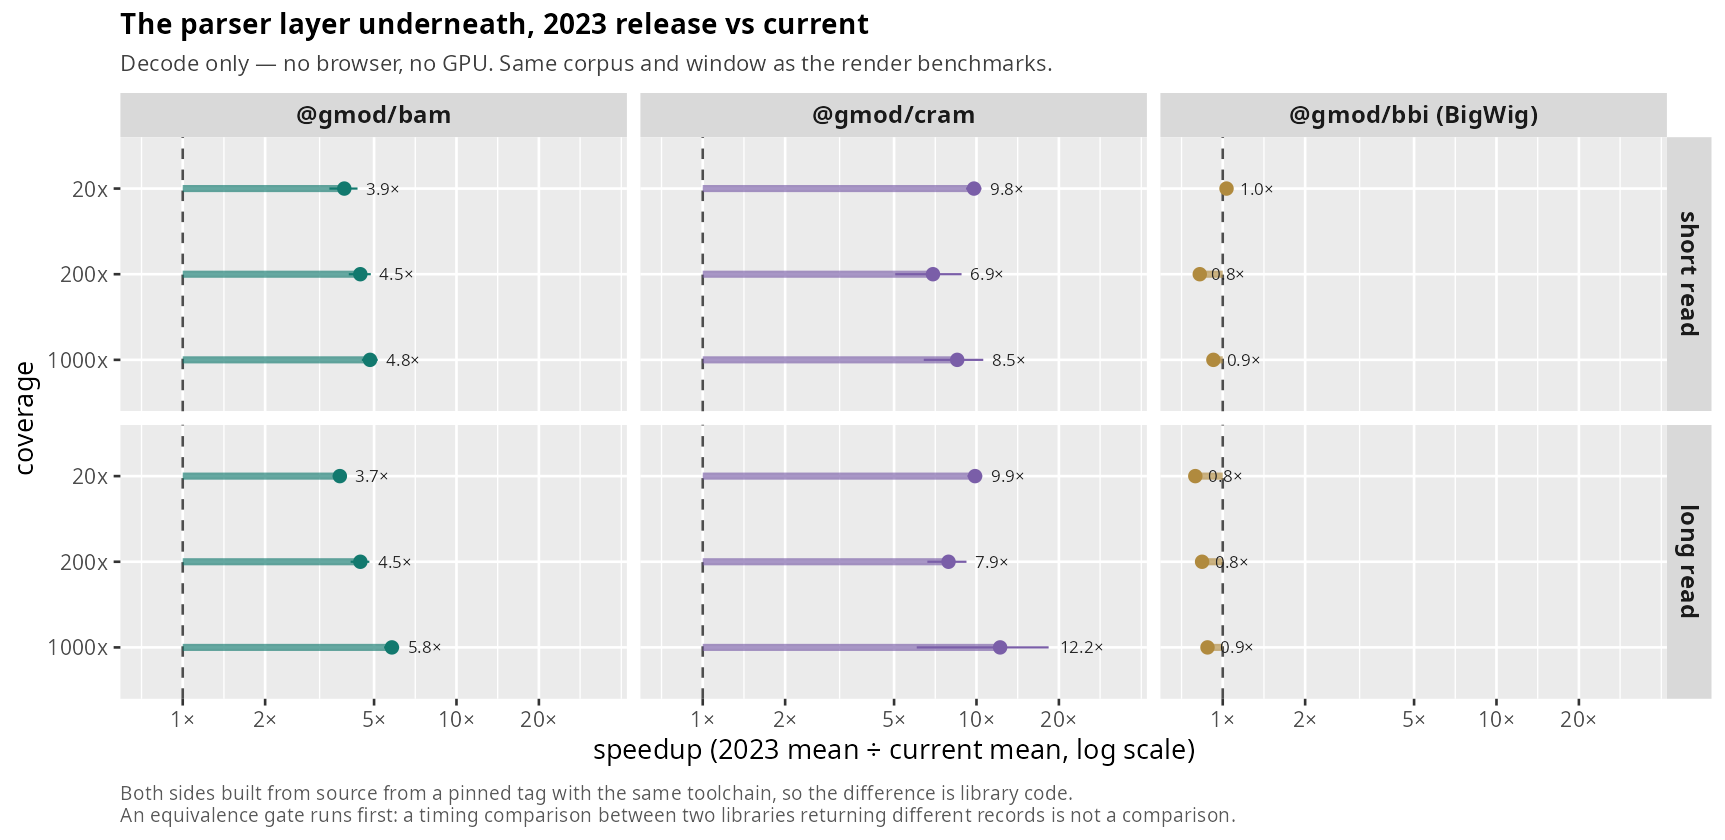
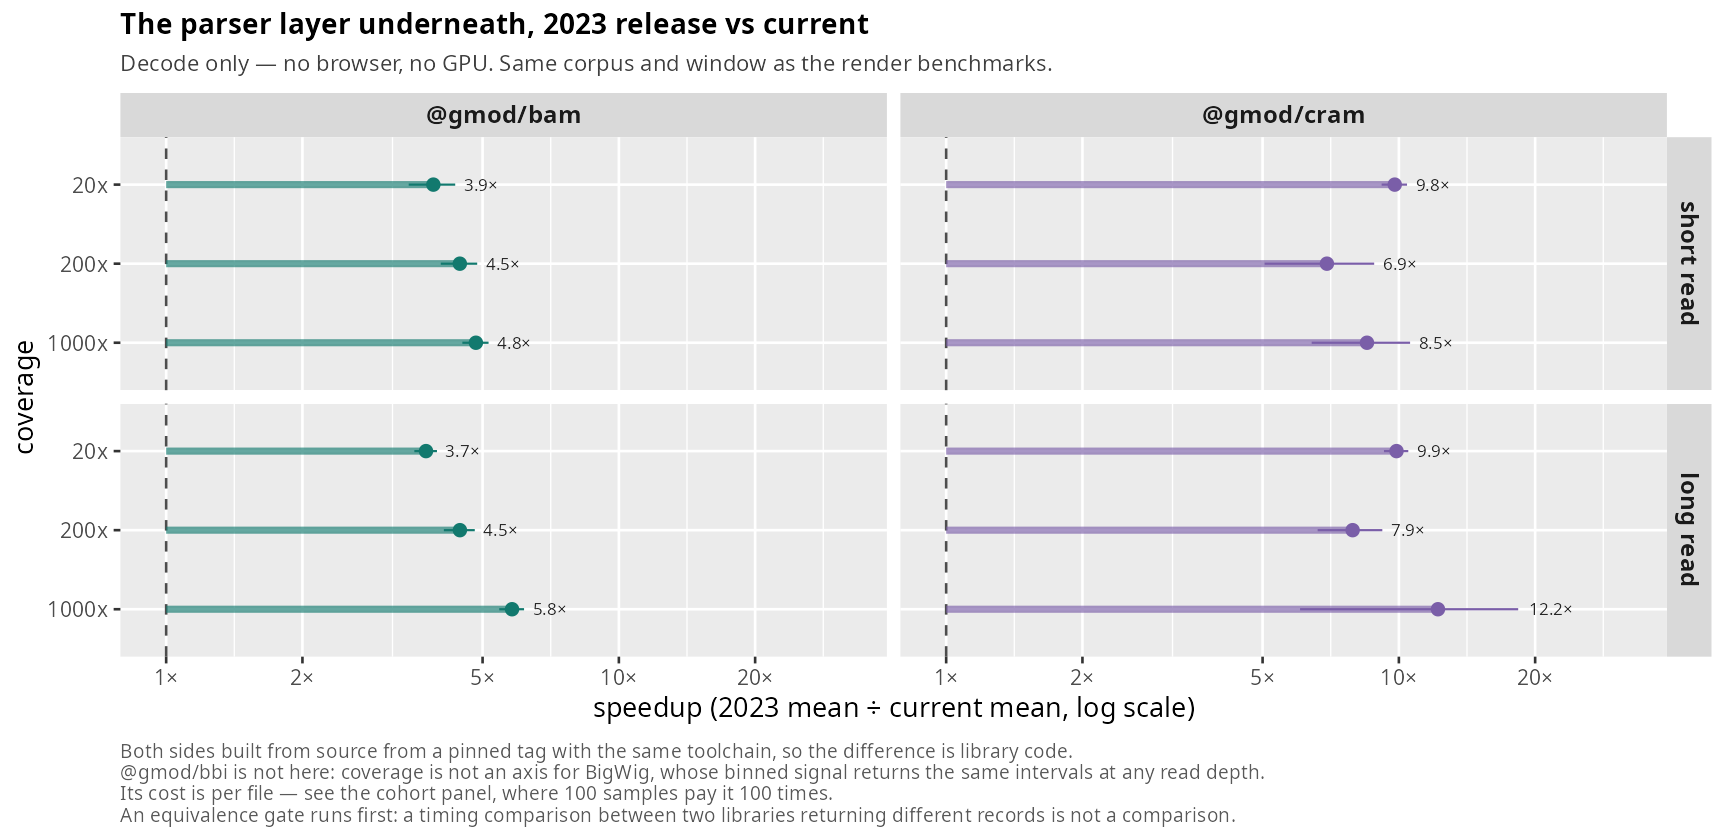
BigWig comes off the coverage axis and gets the benchmark that fits it
Coverage is not an axis for BigWig and putting it on one was nonsense. A BigWig
holds binned signal, so the 19 kb window returns about the same intervals at any
read depth: 13168, 17676, 18495 across 20x/200x/1000x, against BAM's 3079,
31126, 153652 over the same steps. Six sub-2 ms numbers that barely move were
drawn as a coverage trend. COMPARISONS.md already said the single-file case
'reports nothing -- 1-3 ms, flat'; the figure had not caught up.

The axis that matters is how many FILES, because a BigWig query reads the
header, walks the chromosome B+ tree and descends the R-tree before touching
data, and a panel pays all of it per sample. results/figures/cohort-bw.png plots
that: read() calls against panel size, and the per-file read sequence beside it.

Counts rather than milliseconds, which is why this figure is drawable on a box
too loaded to time anything -- and it carries a finding the timings would have
buried. The current release issues one MORE request per file than the 2023 one
for identical bytes: a 56-byte header read split into 32 and 22. Over a network
that is an extra round trip per sample, 100 of them in a 100-file panel.

Cohort counts re-run at the pins versions.json actually holds (v3.0.0 vs
v11.2.2); they were recorded against v4.0.0/v10.0.2 before the 2026-08-18
repin.

diff --git a/ecosystem/results/cohort-bw.md b/ecosystem/results/cohort-bw.md
@@ -26,8 +26,8 @@ range request and a round trip.
 
 | version | N | reads | bytes | reads per file |
 | --- | ---: | ---: | ---: | ---: |
-| v4.0.0 (2023) | 100 | 500 | 1649 KB | 5.0 |
-| v10.0.2 (current) | 100 | 600 | 1649 KB | 6.0 |
+| v3.0.0 (2023) | 100 | 500 | 1649 KB | 5.0 |
+| v11.2.2 (current) | 100 | 600 | 1649 KB | 6.0 |
 
 Full sizes are in `results/cohort-bw.json`. Reads per file is flat across N in
 every row, which is the finding: this cost is per-file and does not amortize —
@@ -40,20 +40,20 @@ through the same layout, so this is the pattern each version repeats N times.
 
 | version | reads, in order (bytes) |
 | --- | --- |
-| v4.0.0 (2023) | 2000, 56, 48, 8196, 6647 |
-| v10.0.2 (current) | 2000, 32, 22, 48, 8196, 6647 |
+| v3.0.0 (2023) | 2000, 56, 48, 8196, 6647 |
+| v11.2.2 (current) | 2000, 32, 22, 48, 8196, 6647 |
 
 ## Time
 
 Sequential opens, one process per version, version order rotated every round,
-each arm best-of-1 and the table the median over 1 rounds.
+each arm best-of-3 and the table the median over 5 rounds.
 
-> **This half is not a run of record. Peak 1-minute load was 5.6**, against the 4.0 this repo treats as the ceiling for a quotable absolute. Do not quote a millisecond from this table. The request counts above are unaffected — they are counts, not timings, and they are the same on an idle box and a loaded one.
+> **This half is not a run of record. Peak 1-minute load was 10.8**, against the 4.0 this repo treats as the ceiling for a quotable absolute. Do not quote a millisecond from this table. The request counts above are unaffected — they are counts, not timings, and they are the same on an idle box and a loaded one.
 
 | version | N=1 | N=10 | N=100 |
 | --- | ---: | ---: | ---: |
-| v4.0.0 (2023) | 1.5 ms | 16.1 ms | 94.4 ms |
-| v10.0.2 (current) | 1.1 ms | 6.6 ms | 80.4 ms |
+| v3.0.0 (2023) | 1.6 ms | 10.5 ms | 79.8 ms |
+| v11.2.2 (current) | 1.1 ms | 11.7 ms | 82.6 ms |
 
 A browser opens its tracks concurrently, so this is not the wall clock a user
 sees. What concurrency hides is precisely the per-file cost the table is about,
